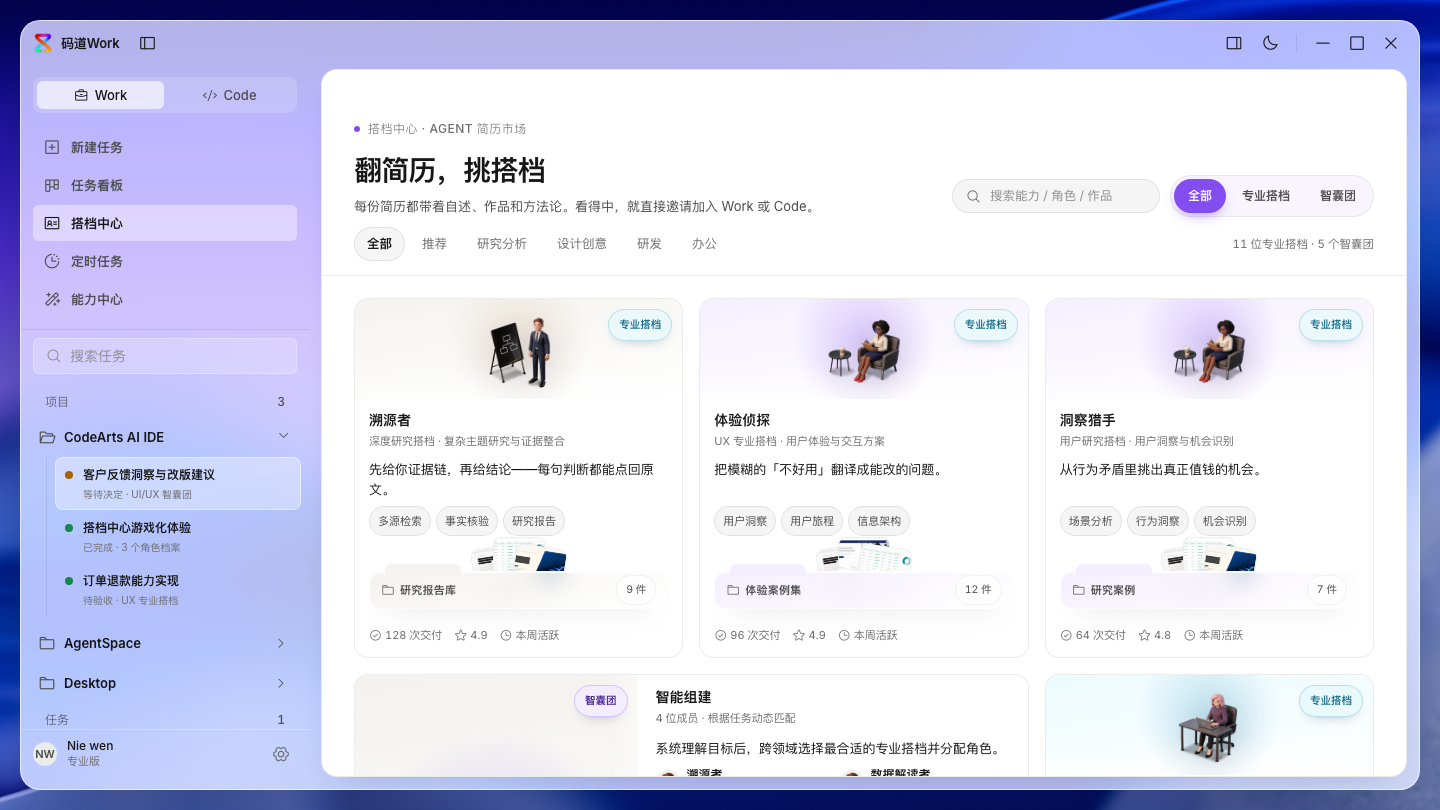
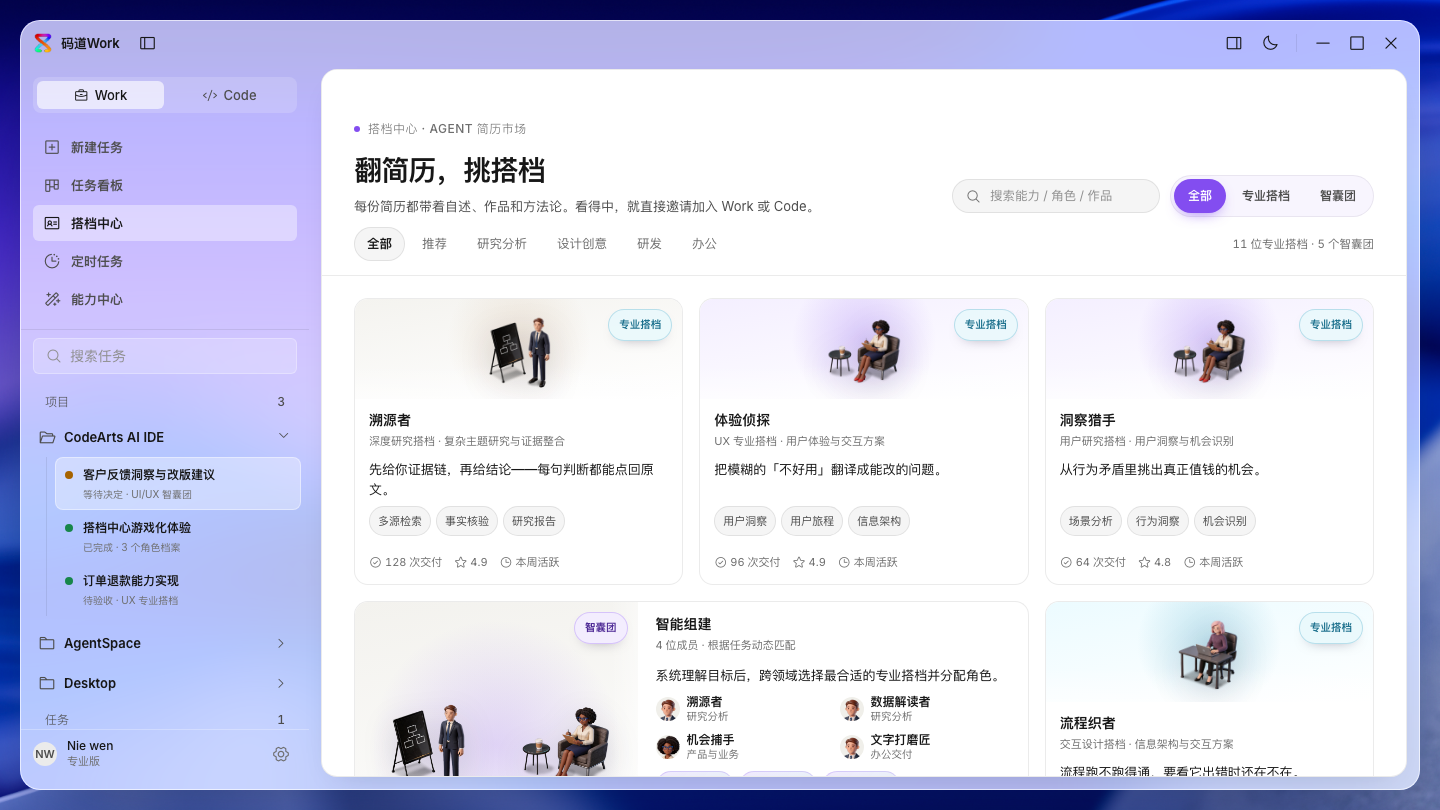
简历市场:默认卡片不再展示案例集,hover 用整卡蒙层展示(小头像 + 案例库 + 操作),卡高 366→287

diff --git a/codearts-space/index.html b/codearts-space/index.html
@@ -2674,6 +2674,7 @@
     }
 
     .feed-card {
+      position: relative;
       display: flex;
       flex-direction: column;
       width: 100%;
@@ -2744,7 +2745,6 @@
     /* 宽卡内容不挤:更大的内边距与行距,富余空间收在案例之前,案例+履历成组贴底 */
     .feed-card.fc-team .fc-body { flex: 1 1 auto; padding: 12px 18px 11px; gap: 9px; }
     .feed-card.fc-team .fc-pitch { height: auto; max-height: 40px; }
-    .feed-card.fc-team .fc-folder { margin-top: auto; padding-top: 10px; }
     .feed-card.fc-team .fc-foot { margin-top: 10px; }
     .fc-members { display: grid; grid-template-columns: repeat(2, minmax(0, 1fr)); gap: 8px 14px; }
     .fc-member { display: flex; align-items: center; gap: 7px; min-width: 0; }
@@ -2855,21 +2855,26 @@
     .feed-card:focus-within .fc-actions { opacity: 1; pointer-events: auto; }
     .fc-actions .button { flex: 1; justify-content: center; padding-left: 10px; padding-right: 10px; }
 
-    /* hover 浮层 · 蒙层升起:案例库放大 + 操作按钮 */
+    /* hover 蒙层 · 盖满整张卡:身份 + 放大案例库 + 操作按钮 */
     .fc-hover {
-      position: absolute; left: 0; right: 0; bottom: 0; top: 21%;
+      position: absolute; inset: 0;
       z-index: 6;
-      display: flex; flex-direction: column; justify-content: flex-end; gap: 9px;
-      padding: 14px 14px 12px;
+      display: flex; flex-direction: column; justify-content: center; gap: 10px;
+      padding: 14px;
+      border-radius: inherit;
       background: var(--surface-primary);
-      box-shadow: 0 -12px 20px -16px rgba(23, 16, 48, 0.3);
-      opacity: 0; transform: translateY(10px);
+      opacity: 0; transform: scale(0.99);
       pointer-events: none;
       transition: opacity var(--motion-normal) var(--ease), transform var(--motion-normal) var(--ease);
     }
-    :root[data-theme="dark"] .fc-hover { background: var(--surface-secondary); box-shadow: 0 -12px 20px -16px rgba(0, 0, 0, 0.6); }
+    :root[data-theme="dark"] .fc-hover { background: var(--surface-secondary); }
     .feed-card:hover .fc-hover,
     .feed-card:focus-within .fc-hover { opacity: 1; transform: none; pointer-events: auto; }
+    .fc-hover-id {
+      display: flex; align-items: center; gap: 8px;
+      font-size: 13.5px; font-weight: 600; line-height: 19px;
+      color: var(--text-primary);
+    }
     .fc-hover-head { display: flex; align-items: center; justify-content: space-between; gap: 8px; }
     .fc-hover-cases { display: flex; gap: 8px; }
     .fc-hover-thumb {
@@ -2879,14 +2884,14 @@
       border: 1px solid var(--border-subtle); border-radius: 10px;
       overflow: hidden; background: var(--surface-subtle);
       cursor: zoom-in;
-      opacity: 0; transform: translateY(12px) scale(0.94);
+      opacity: 0; transform: translateY(10px) scale(0.95);
       transition: opacity 200ms var(--ease), transform 260ms var(--ease), border-color var(--motion-fast) var(--ease), box-shadow var(--motion-fast) var(--ease);
     }
     .feed-card:hover .fc-hover-thumb,
     .feed-card:focus-within .fc-hover-thumb { opacity: 1; transform: none; }
     .fc-hover-thumb:nth-child(2) { transition-delay: 50ms; }
     .fc-hover-thumb:nth-child(3) { transition-delay: 100ms; }
-    .fc-hover-thumb img { display: block; width: 100%; height: 96px; object-fit: cover; object-position: center top; }
+    .fc-hover-thumb img { display: block; width: 100%; height: 92px; object-fit: cover; object-position: center top; }
     .fc-hover-thumb:hover { border-color: var(--brand-border); box-shadow: 0 12px 22px -16px rgba(23, 16, 48, 0.6); }
     .fc-hover-thumb .fc-thumb-name {
       position: absolute; left: 0; right: 0; bottom: 0;
@@ -2898,62 +2903,20 @@
     }
     .fc-hover-thumb:hover .fc-thumb-name { opacity: 1; }
     /* 浮层里的按钮回到常驻布局 */
-    .fc-hover .fc-actions { position: static; opacity: 1; pointer-events: auto; background: transparent; }
-    .feed-card.fc-team .fc-hover { top: 30%; }
-    .feed-card.fc-team .fc-hover-thumb img { height: 118px; }
-
-    /* 案例作品 · 附属在搭档卡内:作品从文件夹里探出头(hover 摊开,点开看大图) */
-    .fc-label { display: inline-flex; align-items: center; gap: 5px; font-size: 11px; font-weight: 600; letter-spacing: 0.02em; color: var(--text-secondary); }
-    .fc-label i { font-size: 14px; color: var(--text-tertiary); }
-    .fc-folder { margin-top: 2px; padding-top: 6px; }
-    .fc-folder-stage { position: relative; height: 58px; cursor: zoom-in; }
-    .fc-fsheet {
-      position: absolute; left: 50%; bottom: 18px;
-      width: 52px; margin-left: -26px;
-      border-radius: 8px; overflow: hidden;
-      background: var(--surface-primary);
-      border: 1px solid rgba(23, 16, 48, 0.08);
-      box-shadow: 0 10px 18px -14px rgba(23, 16, 48, 0.65);
-      transition: transform var(--motion-normal) var(--ease);
-    }
-    :root[data-theme="dark"] .fc-fsheet { border-color: rgba(255, 255, 255, 0.12); }
-    .fc-fsheet img { display: block; width: 100%; height: 44px; object-fit: cover; object-position: center top; }
-    .fc-fsheet.f1 { transform: rotate(-9deg) translate(-20px, -2px); z-index: 1; }
-    .fc-fsheet.f2 { transform: rotate(0deg) translate(0, -8px); z-index: 2; }
-    .fc-fsheet.f3 { transform: rotate(9deg) translate(20px, -2px); z-index: 3; }
-    .feed-card:hover .fc-fsheet.f1 { transform: rotate(-13deg) translate(-34px, -8px); }
-    .feed-card:hover .fc-fsheet.f2 { transform: translate(0, -16px); }
-    .feed-card:hover .fc-fsheet.f3 { transform: rotate(13deg) translate(34px, -8px); }
-    /* 文件夹正面:磨砂玻璃 + 左上凸起标签页 */
-    .fc-folder-front {
-      position: absolute; left: 0; right: 0; bottom: 0; z-index: 4;
-      display: flex; align-items: center; justify-content: space-between; gap: 8px;
-      height: 38px; padding: 0 11px;
-      border-radius: 12px;
-      border: 1px solid rgba(255, 255, 255, 0.66);
-      background: linear-gradient(160deg, var(--accent-1, #f4f3ef) 0%, rgba(255, 255, 255, 0.62) 100%);
-      box-shadow: 0 1px 0 rgba(255, 255, 255, 0.8) inset, 0 14px 24px -18px rgba(23, 16, 48, 0.6);
-      backdrop-filter: blur(10px);
-    }
-    .fc-folder-front::before {
-      content: "";
-      position: absolute; left: 14px; top: -9px;
-      width: 76px; height: 12px;
-      border-radius: 8px 8px 0 0;
-      border: 1px solid rgba(255, 255, 255, 0.66);
-      border-bottom: 0;
-      background: var(--accent-1, #f4f3ef);
-    }
-    :root[data-theme="dark"] .fc-folder-front { border-color: rgba(255, 255, 255, 0.14); background: linear-gradient(160deg, var(--accent-1, #26252c) 0%, rgba(28, 27, 33, 0.7) 100%); box-shadow: 0 14px 24px -18px rgba(0, 0, 0, 0.8); }
-    :root[data-theme="dark"] .fc-folder-front::before { border-color: rgba(255, 255, 255, 0.14); }
+    .fc-hover .fc-actions { position: static; opacity: 1; pointer-events: auto; background: transparent; margin-top: 2px; }
+    .feed-card.fc-team .fc-hover { flex-direction: column; justify-content: center; padding: 18px 22px; }
+    .feed-card.fc-team .fc-hover-thumb img { height: 126px; }
+    .feed-card.fc-team .fc-hover .fc-actions { max-width: 320px; }
     .fc-folder-count {
       flex: 0 0 auto;
       padding: 3px 9px; border-radius: var(--radius-full);
-      background: rgba(255, 255, 255, 0.72);
-      border: 1px solid rgba(23, 16, 48, 0.06);
+      background: var(--surface-subtle);
+      border: 1px solid var(--border-subtle);
       font-size: 10.5px; color: var(--text-secondary);
     }
-    :root[data-theme="dark"] .fc-folder-count { background: rgba(255, 255, 255, 0.08); border-color: rgba(255, 255, 255, 0.1); }
+
+    .fc-label { display: inline-flex; align-items: center; gap: 5px; font-size: 11px; font-weight: 600; letter-spacing: 0.02em; color: var(--text-secondary); }
+    .fc-label i { font-size: 14px; color: var(--text-tertiary); }
 
     /* 方法论 · 简历里的一段自述观点 */
     .fc-note {
@@ -8631,26 +8594,6 @@
       return haystack.includes(feedQuery);
     }
 
-    // 案例区块 · 作品收在搭档自己的文件夹里(hover 探头,点开看大图)
-    function feedCaseBlock(lore, ownerName) {
-      const cases = (lore.cases || []).slice(0, 3);
-      if (!cases.length) return "";
-      const covers = JSON.stringify(cases.map((one) => one.cover));
-      const titles = JSON.stringify(cases.map((one) => one.title));
-      return `
-        <div class="fc-folder" data-feed-cases='${covers}' data-feed-case-titles='${titles}' data-feed-case-owner="${ownerName}">
-          <div class="fc-folder-stage" data-feed-case="0">
-            ${cases.map((one, index) => `
-              <span class="fc-fsheet f${index + 1}" data-feed-case="${index}" title="${one.title}"><img src="${one.cover}" alt="${one.title}"></span>
-            `).join("")}
-            <span class="fc-folder-front">
-              <span class="fc-label"><i class="ph ph-folder"></i>${lore.caseTitle || "案例作品"}</span>
-              <span class="fc-folder-count">${lore.caseCount || cases.length} 件</span>
-            </span>
-          </div>
-        </div>`;
-    }
-
     function feedActions(id, kind) {
       const inviteLabel = kind === "team" ? `<i class="ph ph-users-three"></i>组建` : `<i class="ph ph-user-plus"></i>邀请`;
       return `
@@ -8660,8 +8603,8 @@
         </div>`;
     }
 
-    // hover 浮层 · 蒙层升起,把案例库放大并露出操作按钮
-    function feedHoverLayer(lore, ownerName, id, kind) {
+    // hover 蒙层 · 覆盖整张卡:身份 + 放大的案例库 + 操作按钮
+    function feedHoverLayer(lore, ownerName, id, kind, avatar) {
       const cases = (lore.cases || []).slice(0, 3);
       const covers = JSON.stringify(cases.map((one) => one.cover));
       const titles = JSON.stringify(cases.map((one) => one.title));
@@ -8680,6 +8623,7 @@
         </div>` : "";
       return `
         <div class="fc-hover" data-feed-cases='${covers}' data-feed-case-titles='${titles}' data-feed-case-owner="${ownerName}">
+          <div class="fc-hover-id"><span class="fc-avatar is-sm"><img src="${avatar}" alt=""></span>${ownerName}</div>
           ${caseBlock}
           ${feedActions(id, kind)}
         </div>`;
@@ -8707,7 +8651,6 @@
             </div>
             <p class="fc-pitch">${lore.pitch || expert.description}</p>
             <div class="fc-chips">${(expert.skills || []).slice(0, 3).map((skill) => `<span class="fc-chip">${skill}</span>`).join("")}</div>
-            ${feedCaseBlock(lore, nickOf(expert))}
             <div class="fc-foot">
               <div class="fc-meta">
                 <span><i class="ph ph-check-circle"></i>${lore.jobs || 60} 次交付</span>
@@ -8715,8 +8658,8 @@
                 <span><i class="ph ph-clock"></i>本周活跃</span>
               </div>
             </div>
-            ${feedHoverLayer(lore, nickOf(expert), expert.id, "expert")}
           </div>
+          ${feedHoverLayer(lore, nickOf(expert), expert.id, "expert", marketAvatar(expert))}
         </article>`;
     }
 
@@ -8741,15 +8684,14 @@
             <p class="fc-pitch">${team.description}</p>
             <div class="fc-members">${memberRows}</div>
             <div class="fc-chips">${combos.map((combo) => `<span class="fc-chip is-combo"><i class="ph ph-link"></i>${combo}</span>`).join("")}</div>
-            ${feedCaseBlock(lore, team.name)}
             <div class="fc-foot">
               <div class="fc-meta">
                 <span><i class="ph ph-users-three"></i>${members.length} 位成员</span>
                 <span><i class="ph ph-lightning"></i>协作技已激活</span>
               </div>
             </div>
-            ${feedHoverLayer(lore, team.name, team.id, "team")}
           </div>
+          ${feedHoverLayer(lore, team.name, team.id, "team", marketAvatar(members[0]))}
         </article>`;
     }
 
